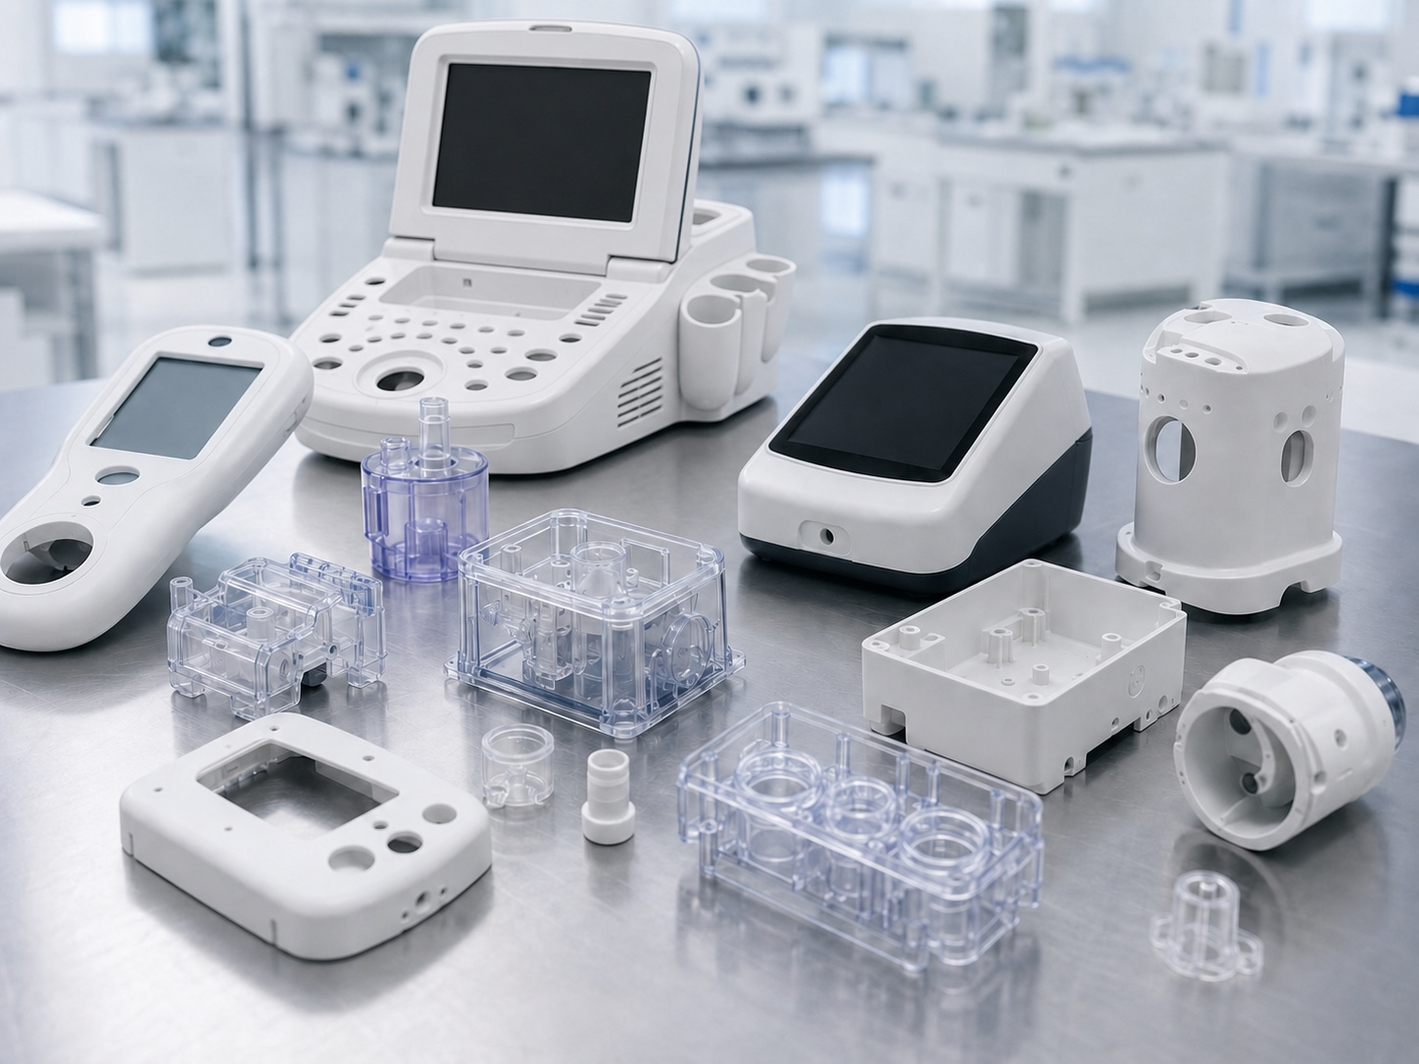
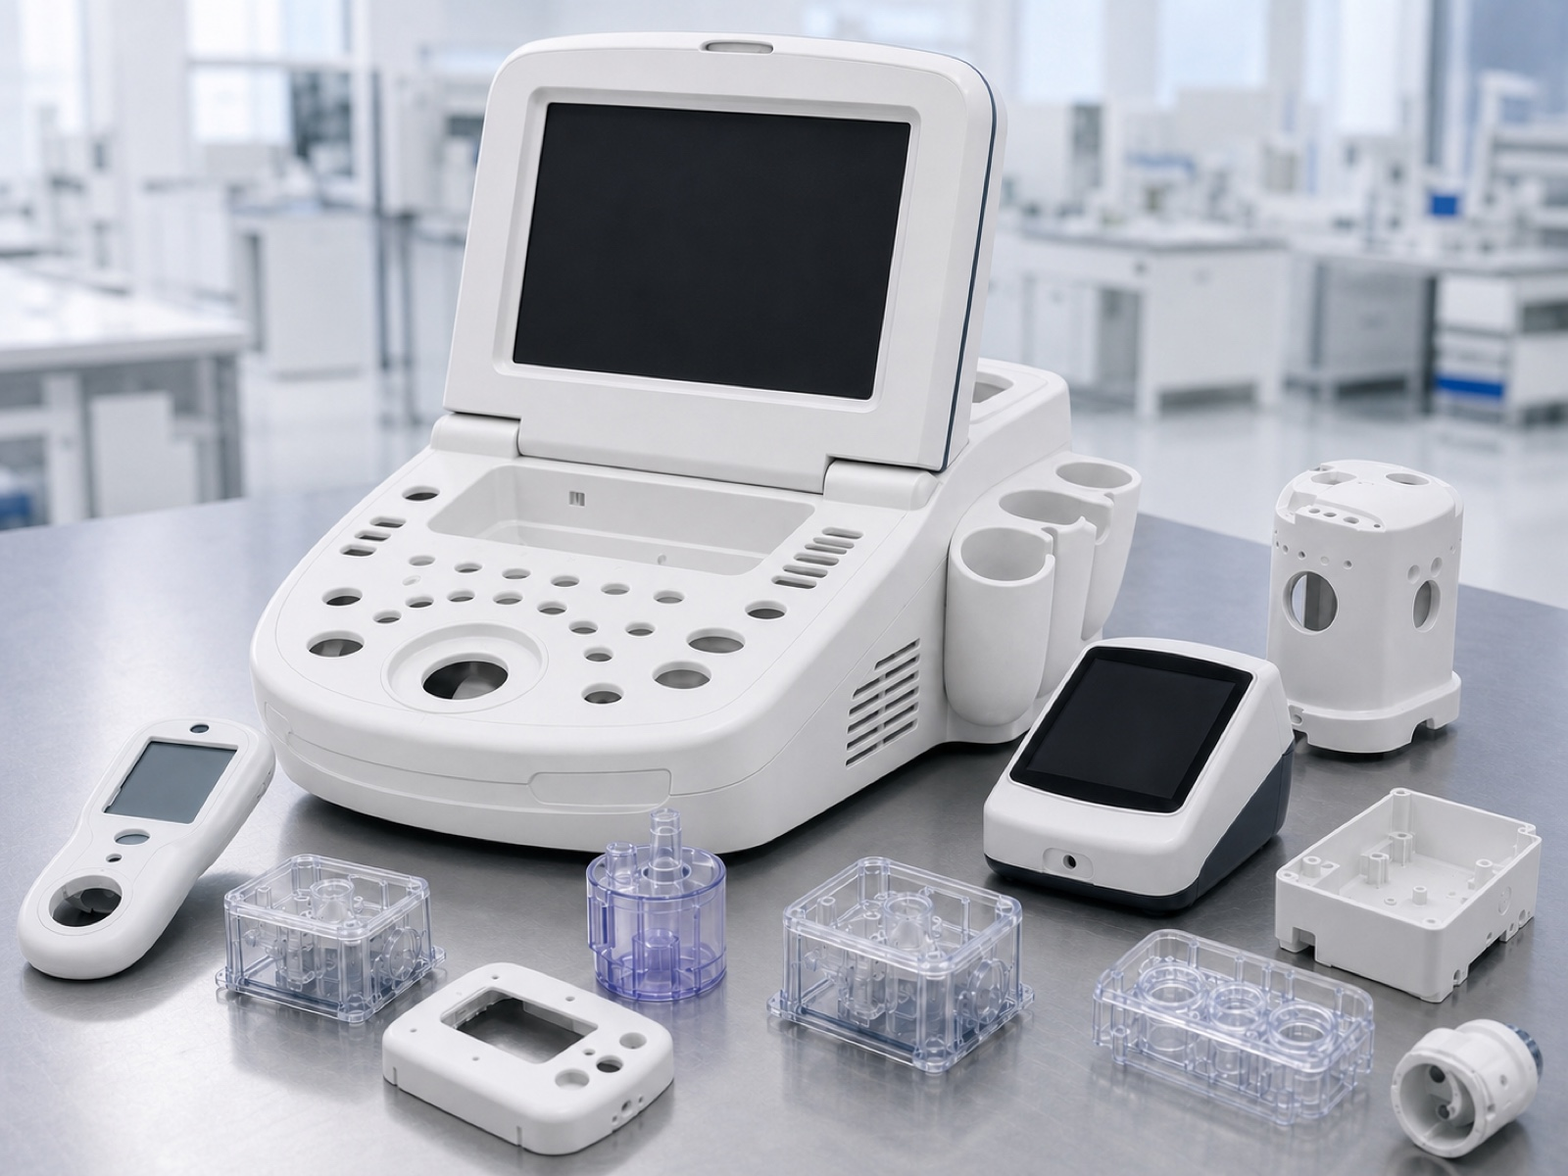
Refine export tooling positioning and navigation

diff --git a/app/page.tsx b/app/page.tsx
@@ -95,15 +95,23 @@ const whyArktech = [
 
 const manufacturingCapabilities = [
   {
-    title: "Custom Injection Mold Tooling Services",
+    title: "Injection Mold Manufacturing",
     description:
-      "We design and manufacture export-grade injection molds for OEM brands and molders, including multi-cavity molds, hot runner systems, insert molding, and mold transfer solutions.",
+      "Export-grade injection mold manufacturing for product companies and injection molding companies, including multi-cavity, hot runner, insert molding and mold transfer programs.",
     image: "/images/seo/plastic-injection-molding.png",
     alt: "Production injection molds and molded components manufactured by Arktech",
     href: "/services/injection-mold-manufacturing"
   },
   {
-    title: "Plastic Injection Molding Production",
+    title: "Mold Trial & Sampling Support",
+    description:
+      "Structured mold trials, sample review, dimensional inspection reports and improvement actions before tooling approval and export delivery.",
+    image: "/images/capabilities/rd-product-development.webp",
+    alt: "Injection mold trial, sample validation and dimensional inspection support",
+    href: "/services/injection-mold-manufacturing"
+  },
+  {
+    title: "Plastic Injection Molding",
     description:
       "Low & High-volume plastic injection molding for engineering components, industrial housings, consumer products, and OEM assemblies with stable quality and scalable production capacity.",
     image: "/images/capabilities/plastic-injection-molding.webp",
@@ -111,7 +119,15 @@ const manufacturingCapabilities = [
     href: "/services/plastic-injection-molding"
   },
   {
-    title: "Precision CNC Machining Services",
+    title: "Tooling Spare Parts",
+    description:
+      "Replacement inserts, wear components, ejector systems and documented spare parts packages for export molds and ongoing production support.",
+    image: "/images/capabilities/cnc-machining.jpg",
+    alt: "Precision tooling inserts and spare parts for export injection molds",
+    href: "/services/injection-mold-manufacturing"
+  },
+  {
+    title: "CNC Machining",
     description:
       "Precision CNC machining for aluminum, stainless steel, brass, and engineering plastics, supporting prototypes, tooling components, and low-volume OEM production.",
     image: "/images/capabilities/cnc-machining.jpg",
@@ -119,7 +135,7 @@ const manufacturingCapabilities = [
     href: "/services/cnc-machining"
   },
   {
-    title: "OEM Die Casting Services for Metal Parts",
+    title: "Die Casting",
     description:
       "Aluminum and zinc die casting solutions for industrial components, precision housings, and OEM metal parts with machining and surface finishing.",
     image: "/images/seo/die-casting-cnc-metal-parts.png",
@@ -127,7 +143,7 @@ const manufacturingCapabilities = [
     href: "/services/die-casting"
   },
   {
-    title: "Sheet Metal Fabrication for Industrial Enclosures",
+    title: "Sheet Metal Fabrication",
     description:
       "Sheet metal fabrication for OEM enclosures, brackets, and industrial assemblies including laser cutting, bending, welding, and finishing.",
     image: "/images/capabilities/sheet-metal-fabrication.jpg",
@@ -135,36 +151,20 @@ const manufacturingCapabilities = [
     href: "/services/sheet-metal-fabrication"
   },
   {
-    title: "Rapid Prototyping for Product Development",
+    title: "Rapid Prototyping",
     description:
-      "Fast SLA, SLS and CNC prototypes for design validation, functional testing and low-volume production.",
+      "Fast SLA, SLS and CNC prototypes for design validation, functional testing and low-volume product development.",
     image: "/images/capabilities/rapid-prototyping-v3.png",
-    alt: "Rapid prototype parts produced with industrial 3D printing",
+    alt: "Rapid prototype parts for design validation and functional testing",
     href: "/services/rapid-prototyping"
   },
   {
-    title: "Vacuum Casting for Product Prototyping",
-    description:
-      "High-quality polyurethane casting for bridge production, appearance models and functional prototypes.",
-    image: "/images/capabilities/vacuum-casting-v3.png",
-    alt: "Vacuum cast polyurethane prototype parts",
-    href: "/services/vacuum-casting"
-  },
-  {
-    title: "Assembly & Secondary Manufacturing Services",
+    title: "Assembly & Secondary Operations",
     description:
       "Component assembly, ultrasonic welding, heat staking, printing, packaging and inspection before shipment.",
     image: "/images/capabilities/assembly-secondary-operations.webp",
     alt: "Electronics assembly line for component assembly and secondary operations",
     href: "/services/assembly-secondary-operations"
-  },
-  {
-    title: "Product Engineering & Development Services",
-    description:
-      "Engineering support from concept to production including DFM analysis, material selection, CAD design, and manufacturability validation for OEM products.",
-    image: "/images/capabilities/rd-product-development.webp",
-    alt: "DFM engineering review and product development for manufactured components",
-    href: "/services/rd-design"
   }
 ];
 
@@ -407,23 +407,22 @@ export default function Home() {
         <div className="absolute inset-0 bg-[linear-gradient(90deg,rgba(23,55,94,0.97),rgba(23,55,94,0.84),rgba(23,55,94,0.28))]" />
         <div className="relative mx-auto flex min-h-[74vh] w-[min(1240px,calc(100%-32px))] items-center py-20 sm:py-24 lg:py-28">
           <div className="max-w-[1040px]">
-            <p className="text-xs font-bold uppercase tracking-[0.14em] text-[#f1c5c5]">Global Export Tooling & Precision Manufacturing Platform</p>
+            <p className="text-xs font-bold uppercase tracking-[0.14em] text-[#f1c5c5]">EXPORT INJECTION MOLDS &amp; MANUFACTURING SUPPORT</p>
             <h1 className="mt-5 max-w-[1000px] text-[2rem] font-semibold leading-[1.14] tracking-[-0.015em] text-white sm:text-[2.4rem] lg:text-[2.75rem]">
-              Injection Molds, Plastic & Metal Components & Manufacturing Solutions from China
+              Export Injection Mold Partner
+              <br />
+              for Product Companies and Injection Molding Companies
             </h1>
             <p className="mt-5 max-w-3xl text-base leading-[1.65] text-white/85 lg:text-[17px]">
-              End-to-end manufacturing support for OEM brands and injection molders—from DFM engineering and export tooling to validated mass production in China.
+              Arktech specializes in export injection molds, DFM engineering and mold trial support, with plastic injection molding, CNC machining, die casting and assembly capabilities to support product development and production needs.
             </p>
             <p className="mt-4 text-sm font-bold uppercase tracking-[0.1em] text-[#f1c5c5]">DFM Engineering → Tooling Development → Validated Mass Production</p>
             <div className="mt-7 flex flex-col gap-3 sm:flex-row sm:flex-wrap">
               <Link className="focus-ring inline-flex min-h-12 w-full items-center justify-center rounded-sm bg-[var(--brand)] px-6 font-bold text-white shadow-sm transition hover:bg-[var(--brand-hover)] sm:w-auto" href="/request-a-quote">
-                Request Manufacturing Quote
+                Start RFQ
               </Link>
-              <Link className="focus-ring inline-flex min-h-12 w-full items-center justify-center rounded-sm border border-white/80 bg-white/10 px-6 font-bold text-white backdrop-blur-sm transition hover:bg-white hover:text-[var(--brand-dark)] sm:w-auto" href="/request-a-quote">
-                Upload CAD for DFM Review
-              </Link>
-              <Link className="focus-ring inline-flex min-h-12 w-full items-center justify-center px-2 font-semibold text-white/90 underline decoration-white/40 underline-offset-8 transition hover:text-white hover:decoration-white sm:w-auto" href="#manufacturing-capabilities">
-                Explore Manufacturing Capabilities
+              <Link className="focus-ring inline-flex min-h-12 w-full items-center justify-center rounded-sm border border-white/80 bg-white/10 px-6 font-bold text-white backdrop-blur-sm transition hover:bg-white hover:text-[var(--brand-dark)] sm:w-auto" href="#manufacturing-capabilities">
+                View Capabilities
               </Link>
             </div>
             <ul className="mt-6 grid max-w-4xl grid-cols-2 gap-px overflow-hidden rounded-sm border border-white/25 bg-white/20 sm:grid-cols-4" aria-label="Manufacturing trust indicators">
@@ -461,10 +460,10 @@ export default function Home() {
         <div className="container-page">
           <p className="text-xs font-bold uppercase tracking-[0.14em] text-[var(--brand)]">WHO WE SUPPORT</p>
           <h2 className="mt-4 max-w-4xl text-3xl font-semibold leading-tight tracking-[-0.01em] text-[var(--brand-dark)] sm:text-[2.5rem]">
-            Manufacturing Support for Product Companies and Injection Molding Companies
+            Export Mold Support for Product Companies and Injection Molding Companies
           </h2>
           <p className="mt-5 max-w-3xl leading-7 text-[var(--muted)]">
-            Arktech supports product-driven companies and injection molding companies with DFM engineering, export tooling, plastic injection molding, CNC machining, die casting, assembly and quality documentation.
+            Arktech supports product-driven companies and injection molding companies with export injection molds, DFM engineering, mold trial support, plastic injection molding and related manufacturing services.
           </p>
           <div className="mt-10 grid gap-6 lg:grid-cols-2">
             {whoWeServe.map((buyer) => (
@@ -515,7 +514,7 @@ export default function Home() {
           <div className="mt-7 grid gap-3 sm:grid-cols-2 lg:grid-cols-4">
             {[
               ["15+ Years Experience", "Tooling and manufacturing support for overseas projects."],
-              ["300+ Export Tooling Projects", "Injection molds, die casting tooling and production support for global customers."],
+              ["300+ Export Tooling Projects", "Export injection molds, die casting tooling and production support for global customers."],
               ["ISO 9001 Certified", "Quality management system for tooling, molding and component manufacturing."],
               ["24h RFQ Response Target", "Engineering review for new CAD files, drawings and production requirements."]
             ].map(([title, description]) => (
@@ -566,7 +565,7 @@ export default function Home() {
             Engineering & Manufacturing Capabilities for Injection Molding & Precision Production
           </h2>
           <p className="mt-4 max-w-4xl leading-7 text-[var(--muted)]">
-            We integrate DFM engineering, tooling development, precision manufacturing, and production validation into a structured engineering system that helps OEM brands and injection molders reduce development risk, improve manufacturability, and accelerate time to market.
+            Export injection mold manufacturing is our core capability, supported by mold trial, sampling, spare parts, plastic injection molding, CNC machining, die casting, sheet metal fabrication and assembly.
           </p>
           <div className="mt-8 grid gap-5 md:grid-cols-2 lg:grid-cols-3">
             {manufacturingCapabilities.map((capability) => (
@@ -599,66 +598,6 @@ export default function Home() {
                 </div>
               </article>
             ))}
-          </div>
-        </div>
-      </section>
-
-      <section className="hidden bg-[var(--brand-dark)] py-14 text-white">
-        <div className="container-page">
-          <div className="max-w-3xl">
-            <p className="text-sm font-bold uppercase tracking-wide text-[#f4c7ca]">How to Start an RFQ</p>
-            <h2 className="mt-3 text-3xl font-bold sm:text-4xl">From CAD Upload to Manufacturable Injection Molds and Precision Components</h2>
-            <p className="mt-4 leading-7 text-[#e6e9f2]">
-              Upload your RFQ files for engineering review, manufacturability analysis, and export tooling quotation from our China manufacturing team.
-            </p>
-          </div>
-          <div className="mt-8 grid gap-4 md:grid-cols-2 lg:grid-cols-4">
-            {oemWorkflow.map((step, index) => (
-              <article key={step.title} className="rounded-sm border border-white/15 bg-white/8 p-5">
-                <p className="text-sm font-bold text-[#f4c7ca]">0{index + 1}</p>
-                <h3 className="mt-3 text-xl font-bold">{step.title}</h3>
-                <p className="mt-3 text-sm leading-6 text-[#e6e9f2]">{step.body}</p>
-                {index === 0 && (
-                  <Link className="mt-5 inline-flex font-bold text-white underline decoration-[#f4c7ca] underline-offset-4" href="/request-a-quote">
-                    Upload Files for DFM Review
-                  </Link>
-                )}
-              </article>
-            ))}
-          </div>
-          <div className="mt-8 rounded-sm border border-white/20 bg-white p-6 text-[var(--foreground)] shadow-xl sm:p-8">
-            <div className="grid gap-7 lg:grid-cols-[0.55fr_1fr] lg:items-end">
-              <div>
-                <p className="text-sm font-bold uppercase tracking-wide text-[var(--brand)]">Engineering Intake</p>
-                <h3 className="mt-2 text-2xl font-bold sm:text-3xl">Start Your DFM Review</h3>
-                <p className="mt-3 leading-7 text-[var(--muted)]">Share the essential project details now, then complete the secure CAD upload on the DFM review page.</p>
-              </div>
-              <form action="/request-a-quote" className="grid gap-4 sm:grid-cols-2 lg:grid-cols-5" method="get">
-                <label className="grid gap-2 text-sm font-bold sm:col-span-2 lg:col-span-2">
-                  CAD upload
-                  <input accept=".step,.stp,.iges,.igs,.stl,.x_t,.pdf,.zip" className="min-h-12 rounded-sm border border-dashed border-[var(--brand)] px-3 py-2 font-normal" multiple name="files" type="file" />
-                </label>
-                <label className="grid gap-2 text-sm font-bold">
-                  Material
-                  <input className="min-h-12 rounded-sm border border-[var(--line)] px-3 font-normal" name="material" placeholder="e.g. ABS" />
-                </label>
-                <label className="grid gap-2 text-sm font-bold">
-                  Volume
-                  <input className="min-h-12 rounded-sm border border-[var(--line)] px-3 font-normal" name="volume" placeholder="Annual units" />
-                </label>
-                <label className="grid gap-2 text-sm font-bold">
-                  Lead time
-                  <input className="min-h-12 rounded-sm border border-[var(--line)] px-3 font-normal" name="lead-time" placeholder="Target date" />
-                </label>
-                <label className="grid gap-2 text-sm font-bold sm:col-span-2 lg:col-span-2">
-                  Target country
-                  <input className="min-h-12 rounded-sm border border-[var(--line)] px-3 font-normal" name="target-country" placeholder="Country" />
-                </label>
-                <button className="min-h-12 rounded-sm bg-[var(--brand)] px-5 font-bold text-white transition hover:bg-[var(--brand-hover)] sm:col-span-2 lg:col-span-3 lg:self-end" type="submit">
-                  Get Engineering Feedback in 24 Hours
-                </button>
-              </form>
-            </div>
           </div>
         </div>
       </section>

diff --git a/components/Header.tsx b/components/Header.tsx
@@ -5,26 +5,26 @@ import Link from "next/link";
 import { useState } from "react";
 
 const capabilityMenu = [
-  { label: "Custom Injection Mold Tooling", href: "/services/injection-mold-manufacturing" },
+  { label: "Injection Mold Manufacturing", href: "/services/injection-mold-manufacturing" },
+  { label: "Mold Trial & Sampling Support", href: "/services/injection-mold-manufacturing" },
   { label: "Plastic Injection Molding", href: "/services/plastic-injection-molding" },
-  { label: "Precision CNC Machining", href: "/services/cnc-metal-parts" },
+  { label: "Tooling Spare Parts", href: "/services/injection-mold-manufacturing" },
+  { label: "CNC Machining", href: "/services/cnc-metal-parts" },
   { label: "Die Casting", href: "/services/die-casting-mold" },
   { label: "Sheet Metal Fabrication", href: "/seo/sheet-metal-fabrication" },
   { label: "Rapid Prototyping", href: "/seo/rapid-prototyping-services" },
-  { label: "Vacuum Casting", href: "/seo/vacuum-casting-services" },
-  { label: "Assembly & Secondary Operations", href: "/services/plastic-metal-assembly" },
-  { label: "Product Engineering & Development", href: "/services/dfm-engineering" }
+  { label: "Assembly & Secondary Operations", href: "/services/plastic-metal-assembly" }
 ];
 
 const industryMenu = [
-  { label: "Automotive & Electric Vehicles", href: "/industries/new-energy" },
-  { label: "Home Appliances & Smart Home Products", href: "/industries/smart-home" },
-  { label: "Consumer Electronics & Electrical Devices", href: "/industries" },
-  { label: "Smart Devices & IoT Products", href: "/industries/smart-home" },
+  { label: "Robotics", href: "/industries/robotics" },
   { label: "Medical & Healthcare Devices", href: "/industries/medical-devices" },
-  { label: "Aerospace & Defense", href: "/industries" },
-  { label: "Industrial Equipment & Automation", href: "/industries/industrial-automation" },
-  { label: "Pet & Lifestyle Products", href: "/industries/pet-tech" }
+  { label: "Industrial Automation", href: "/industries/industrial-automation" },
+  { label: "Smart Home & IoT", href: "/industries/smart-home" },
+  { label: "Energy Storage & EV Charging", href: "/industries/new-energy" },
+  { label: "Home Appliance", href: "/industries/smart-home" },
+  { label: "Pet Tech Products", href: "/industries/pet-tech" },
+  { label: "Consumer Electronics", href: "/industries" }
 ];
 
 const injectionMoldMenu = [
@@ -38,11 +38,17 @@ const injectionMoldMenu = [
   { label: "Die Casting Tooling", href: "/tooling-examples/die-casting-molds" }
 ];
 
+const aboutMenu = [
+  { label: "Group", href: "/company" },
+  { label: "Quality", href: "/company#quality" },
+  { label: "Project Management", href: "/company#project-management" }
+];
+
 const navigation = [
   { label: "Capabilities", href: "/services", menu: capabilityMenu },
   { label: "Industries", href: "/industries", menu: industryMenu },
   { label: "Injection Molds", href: "/tooling-examples", menu: injectionMoldMenu },
-  { label: "Quality", href: "/#trust-system" },
+  { label: "About", href: "/company", menu: aboutMenu },
   { label: "Case Studies", href: "/case-studies" },
   { label: "Resources", href: "/resources" },
   { label: "Contact", href: "/contact" }
@@ -56,7 +62,7 @@ function MegaMenu({ items, overviewHref, overviewLabel }: { items: MenuItem[]; o
       <div className="rounded-md border border-[var(--line)] bg-white p-3 shadow-[0_20px_50px_rgba(15,35,60,0.18)]">
         <div className="grid grid-cols-1 gap-1">
           {items.map((item) => (
-            <Link className="focus-ring rounded-sm px-3 py-3 text-sm font-medium text-[var(--brand-dark)] transition hover:bg-[var(--surface-soft)] hover:text-[var(--brand)]" href={item.href} key={item.href}>
+            <Link className="focus-ring rounded-sm px-3 py-3 text-sm font-medium text-[var(--brand-dark)] transition hover:bg-[var(--surface-soft)] hover:text-[var(--brand)]" href={item.href} key={item.label}>
               {item.label}
             </Link>
           ))}
@@ -83,7 +89,7 @@ export function Header() {
             width={220}
             height={68}
             priority
-            className="h-8 w-auto object-contain lg:h-9"
+            className="h-14 w-auto object-contain lg:h-[62px]"
           />
         </Link>
 
@@ -155,7 +161,7 @@ export function Header() {
                     <Link
                       className="rounded-sm px-3 py-2 text-sm font-medium text-[var(--muted)] hover:bg-white hover:text-[var(--brand)]"
                       href={subItem.href}
-                      key={subItem.href}
+                      key={subItem.label}
                       onClick={() => setMenuOpen(false)}
                     >
                       {subItem.label}

diff --git a/components/Footer.tsx b/components/Footer.tsx
@@ -14,27 +14,28 @@ const footerColumns = [
   {
     title: "Capabilities",
     links: [
-      ["Injection Mold Tooling", "/services/injection-mold-manufacturing"],
+      ["Injection Mold Manufacturing", "/services/injection-mold-manufacturing"],
+      ["Mold Trial & Sampling Support", "/services/injection-mold-manufacturing"],
       ["Plastic Injection Molding", "/services/plastic-injection-molding"],
+      ["Tooling Spare Parts", "/services/injection-mold-manufacturing"],
       ["CNC Machining", "/services/cnc-metal-parts"],
       ["Die Casting", "/services/die-casting-mold"],
-      ["Sheet Metal Fabrication", "/services"],
-      ["Rapid Prototyping", "/services"],
+      ["Sheet Metal Fabrication", "/seo/sheet-metal-fabrication"],
+      ["Rapid Prototyping", "/seo/rapid-prototyping-services"],
       ["Assembly & Secondary Services", "/services/plastic-metal-assembly"],
-      ["Product Engineering & Development", "/services/dfm-engineering"]
     ]
   },
   {
     title: "Industries",
     links: [
-      ["Automotive & Electric Vehicles", "/industries/new-energy"],
-      ["Home Appliances & Smart Home Products", "/industries/smart-home"],
-      ["Consumer Electronics & Electrical Devices", "/industries"],
+      ["Robotics", "/industries/robotics"],
       ["Medical & Healthcare Devices", "/industries/medical-devices"],
-      ["Aerospace & Defense", "/industries"],
-      ["Industrial Equipment & Automation", "/industries/industrial-automation"],
-      ["Smart Devices & IoT Products", "/industries/smart-home"],
-      ["Pet & Lifestyle Products", "/industries/pet-tech"]
+      ["Industrial Automation", "/industries/industrial-automation"],
+      ["Smart Home & IoT", "/industries/smart-home"],
+      ["Energy Storage & EV Charging", "/industries/new-energy"],
+      ["Home Appliance", "/industries/smart-home"],
+      ["Pet Tech Products", "/industries/pet-tech"],
+      ["Consumer Electronics", "/industries"]
     ]
   },
   {
@@ -53,6 +54,11 @@ export function Footer() {
   return (
     <>
       <footer className="bg-[var(--brand-dark)] text-white">
+        <div className="container-page border-b border-white/10 py-8">
+          <p className="max-w-4xl text-sm leading-7 text-white/75">
+            Arktech is an export injection mold and manufacturing support partner for product companies and injection molding companies across Europe and North America.
+          </p>
+        </div>
         <div className="container-page grid gap-9 py-12 sm:grid-cols-2 lg:grid-cols-5">
           {footerColumns.map((column) => (
             <nav aria-label={`${column.title} footer links`} key={column.title}>
@@ -86,7 +92,7 @@ export function Footer() {
         </div>
 
         <div className="container-page flex flex-col gap-3 py-5 text-xs leading-5 text-white/60 md:flex-row md:items-center md:justify-between">
-          <p>© 2026 Arktech. Injection Mold Tooling, Plastic & Metal Components Manufacturing from China. All rights reserved.</p>
+          <p>© 2026 Arktech. Export tooling, plastic injection molding, CNC machining, die casting and assembly support for global manufacturing projects. All rights reserved.</p>
           <nav aria-label="Legal">
             <ul className="flex flex-wrap gap-x-4 gap-y-2">
               <li><Link className="hover:text-white" href="/privacy-policy">Privacy Policy</Link></li>
